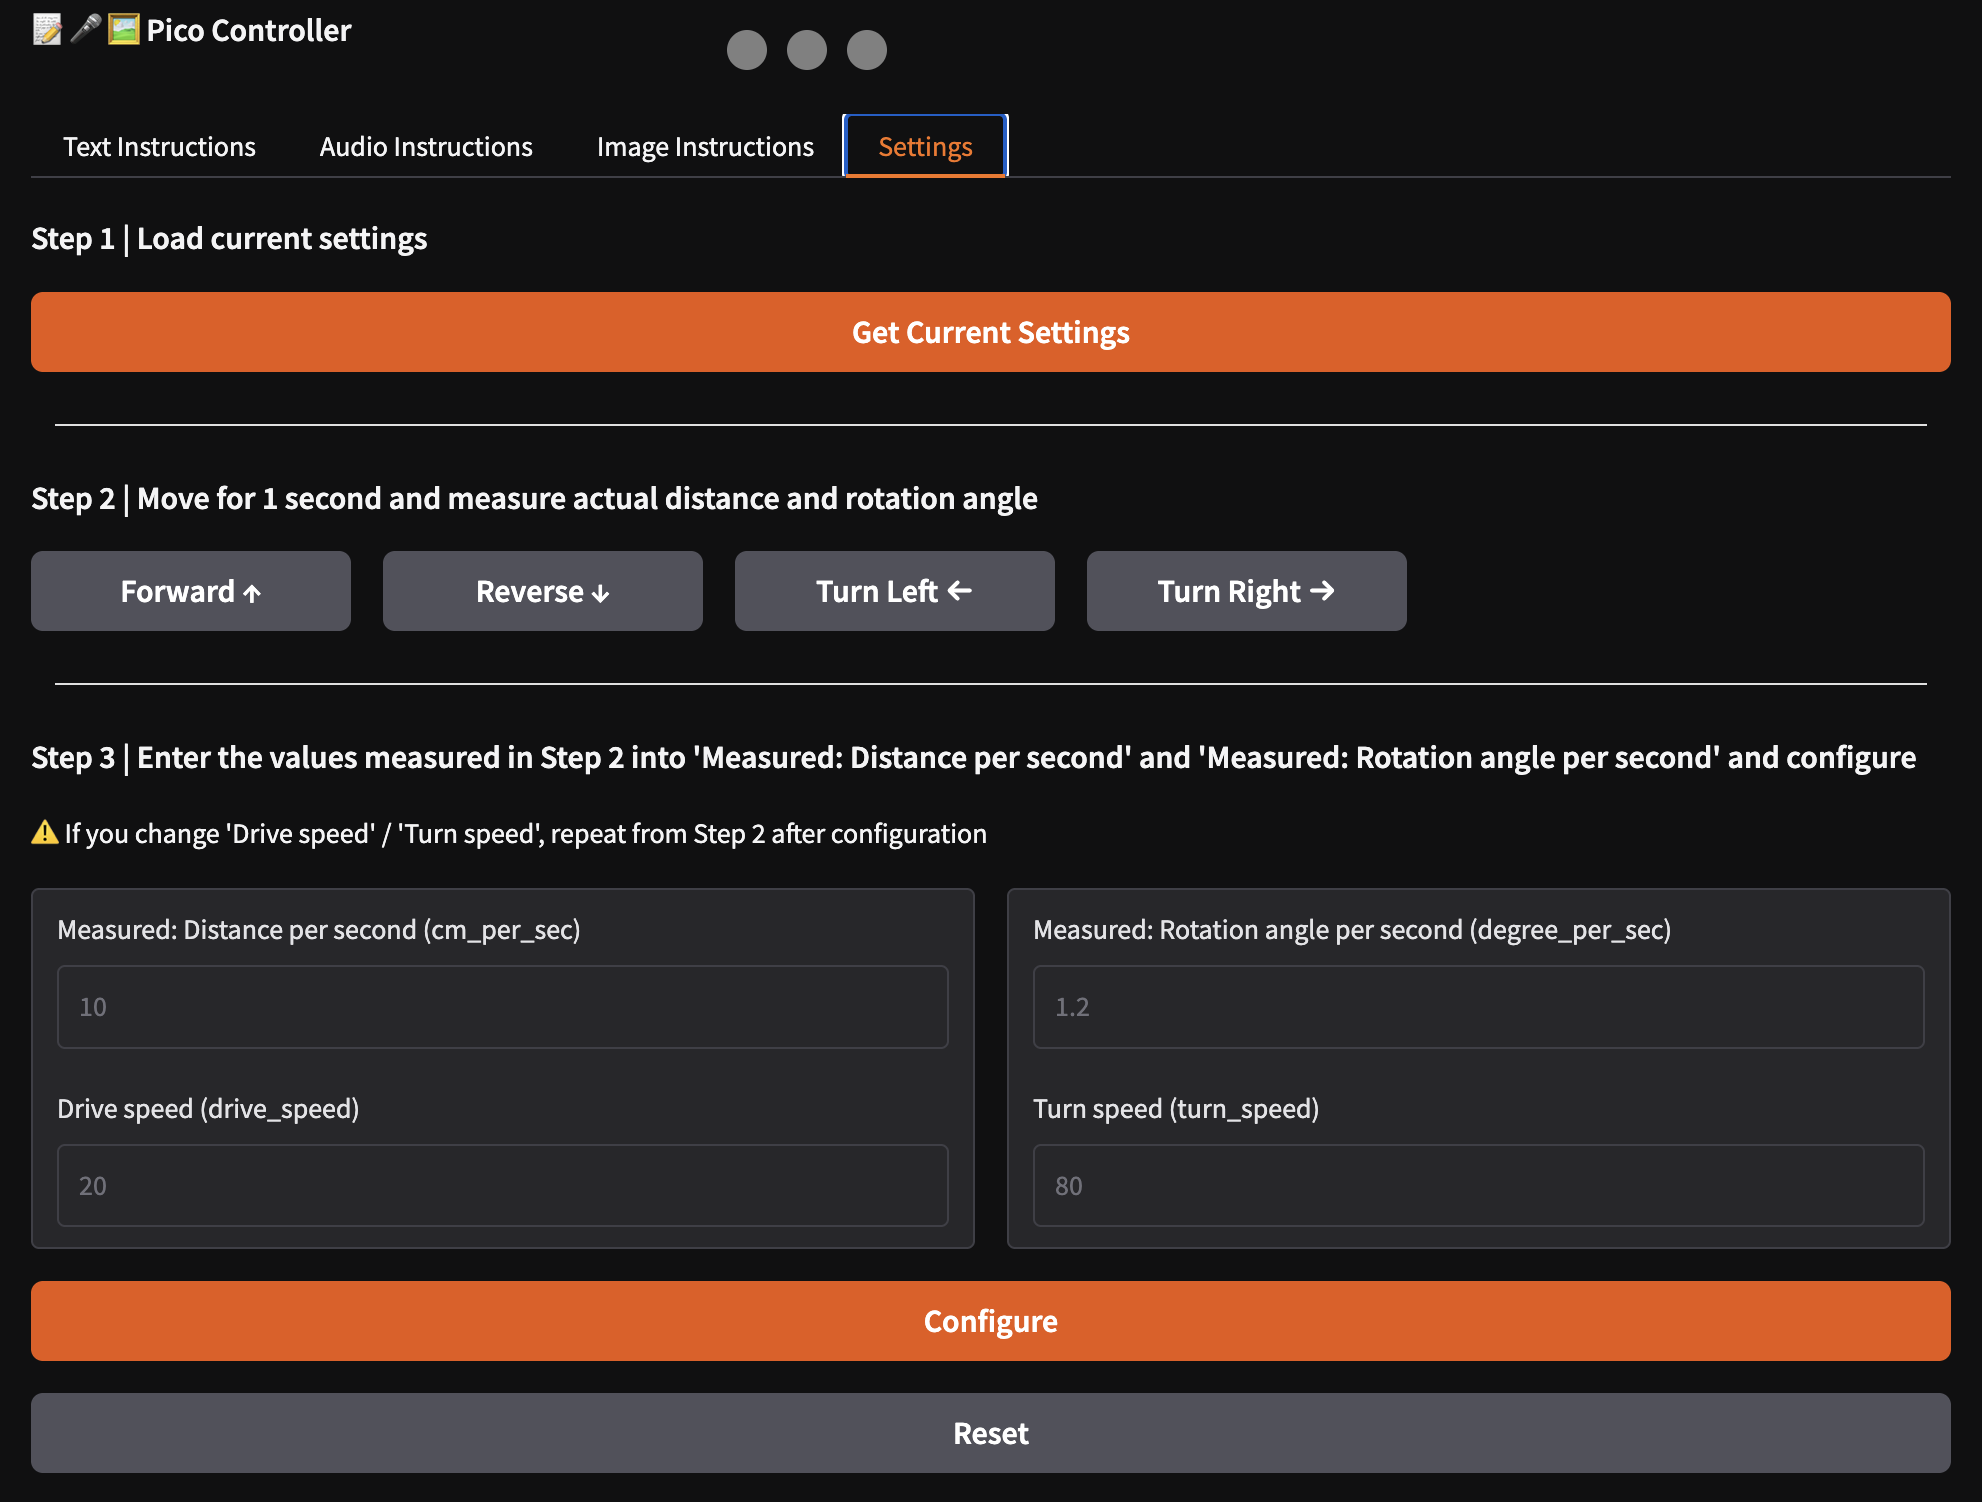
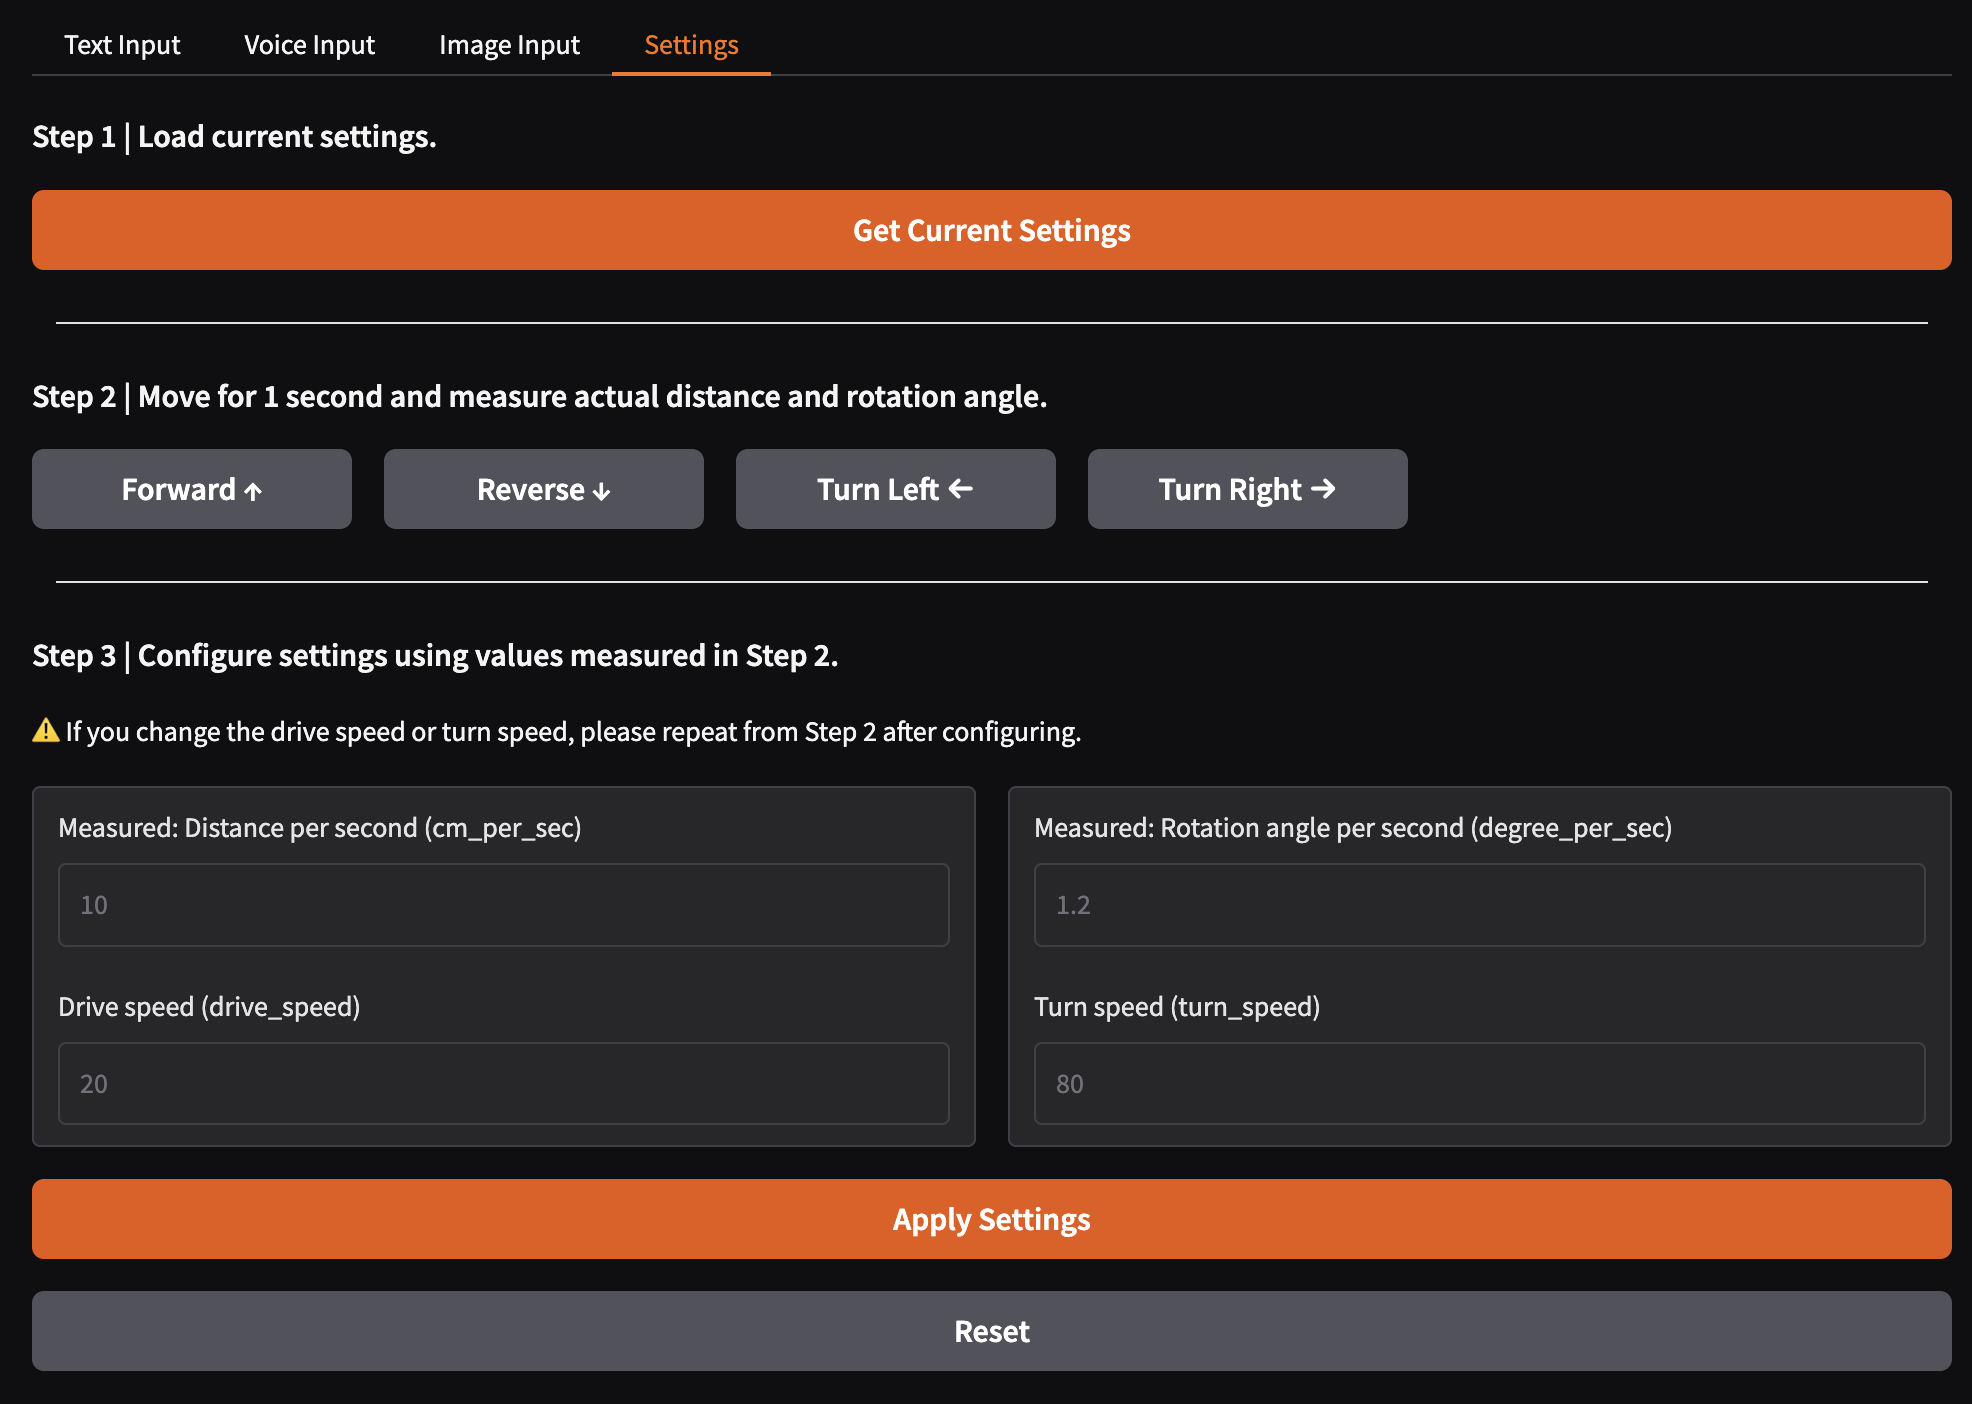
Improve English labels in the UI

diff --git a/pico_controller/i18n.py b/pico_controller/i18n.py
@@ -51,42 +51,42 @@ i18n = gr.I18n(
         "app_title": "📝 🎤 🖼 Pico Controller",
         "progress_lamps_label": "Progress Status",
         # Tabs
-        "tab_text": "Text Instructions",
-        "tab_audio": "Audio Instructions",
-        "tab_image": "Image Instructions",
+        "tab_text": "Text Input",
+        "tab_audio": "Voice Input",
+        "tab_image": "Image Input",
         "tab_settings": "Settings",
         # Common labels
-        "send_button": "Send",
+        "send_button": "Submit",
         "reset_button": "Reset",
-        "status_label": "Send Status",
+        "status_label": "Processing Status",
         "commands_label": "Generated Commands",
         # Text tab
         "text_input_label": "Enter instruction",
-        "text_input_placeholder": "Move forward a bit, then stop",
+        "text_input_placeholder": "Go straight and move a little to the right",
         # Audio tab
         "transcript_label": "Transcription Result",
         # Image tab (uses common labels)
         # Settings tab
-        "settings_step1": "Step 1 | Load current settings",
+        "settings_step1": "Step 1 | Load current settings.",
         "settings_get_button": "Get Current Settings",
-        "settings_step2": "Step 2 | Move for 1 second and measure actual distance and rotation angle",
+        "settings_step2": "Step 2 | Move for 1 second and measure actual distance and rotation angle.",
         "settings_1sec_operation": "1-second operation",
         "drive_forward": "Forward ↑",
         "drive_reverse": "Reverse ↓",
         "turn_left": "Turn Left ←",
         "turn_right": "Turn Right →",
-        "settings_step3": "Step 3 | Enter the values measured in Step 2 into 'Measured: Distance per second' and 'Measured: Rotation angle per second' and configure\n⚠ If you change 'Drive speed' / 'Turn speed', repeat from Step 2 after configuration",
+        "settings_step3": "Step 3 | Configure settings using values measured in Step 2.\n⚠ If you change the drive speed or turn speed, please repeat from Step 2 after configuring.",
         "cm_per_sec_label": "Measured: Distance per second (cm_per_sec)",
         "drive_speed_label": "Drive speed (drive_speed)",
         "degree_per_sec_label": "Measured: Rotation angle per second (degree_per_sec)",
         "turn_speed_label": "Turn speed (turn_speed)",
-        "settings_button": "Configure",
+        "settings_button": "Apply Settings",
         "output_result": "Output Result",
         "status_output_label": "Status",
         # Status messages
         "transcription_complete": "Transcription complete",
         "command_generation_complete": "Command generation complete",
-        "transcription_failed": "Transcription failed. Terminating",
+        "transcription_failed": "Transcription failed. The process has been stopped.",
         "image_loaded": "Image loaded",
     },
 )
